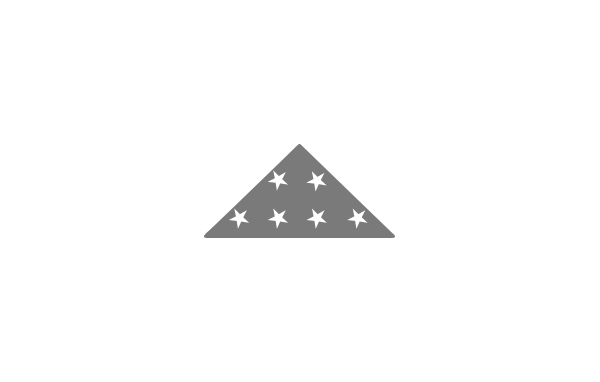
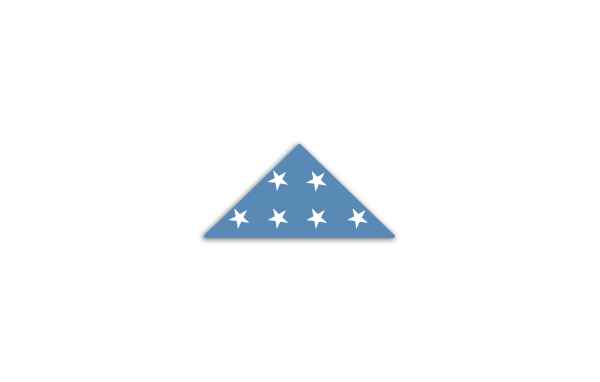
image upadate 3

Changed region(s): [[0.33, 0.3743, 0.66, 0.6335]]

diff --git a/app/leebriceproductdetail.html b/app/leebriceproductdetail.html
@@ -267,9 +267,10 @@
 	</div>
 	<div class="panel panel-default col-md-4 col-md-offset-1 col-sm-12 text-center">
 		<h3 style="color:#000;text-align:center;margin:0 auto;margin-bottom:20px;">THE CAUSE</h3>
-		<div style="text-align:center;">
-			<img src="./img/leebrice/cause.jpg" class="img-responsive" style="-webkit-box-shadow: 0 0 5px 0 rgba(0,0,0,.4); box-shadow: 0 0 5px 0 rgba(0,0,0,.4);max-width:100% !important;margin:0 auto;">
-		</div>
+		<a href="https://vimeo.com/104015713" style="width:45%;margin:0 auto;position:relative;" target="_blank" class="movie">
+			<img src="./img/leebrice/folds_movie_hover.png" alt="" class="img-responsive movhover" style="max-width:600px !important;width:100%;position:absolute;">
+			<img src="./img/leebrice/cause.jpg" class="img-responsive" style="-webkit-box-shadow: 0 0 5px 0 rgba(0,0,0,.4); box-shadow: 0 0 5px 0 rgba(0,0,0,.4);max-width:600px !important;width:100%;">
+		</a>
 		<div>
 			<p style="padding:30px 0;margin:0 auto;">Folds of Honor provides educational scholarships to families of military men and women who have fallen or been disabled in combat while serving in the United States armed forces. Its educational scholarships support private education tuition and tutoring for children in grades K-12, as well as higher education tuition assistance for spouses and dependents.  For more info: <a href="http://www.Foldsofhonor.org/" target="_blank" style="font-weight:bold;">VISIT URL [www.FoldsofHonor.org]</a></p>
 		</div>
